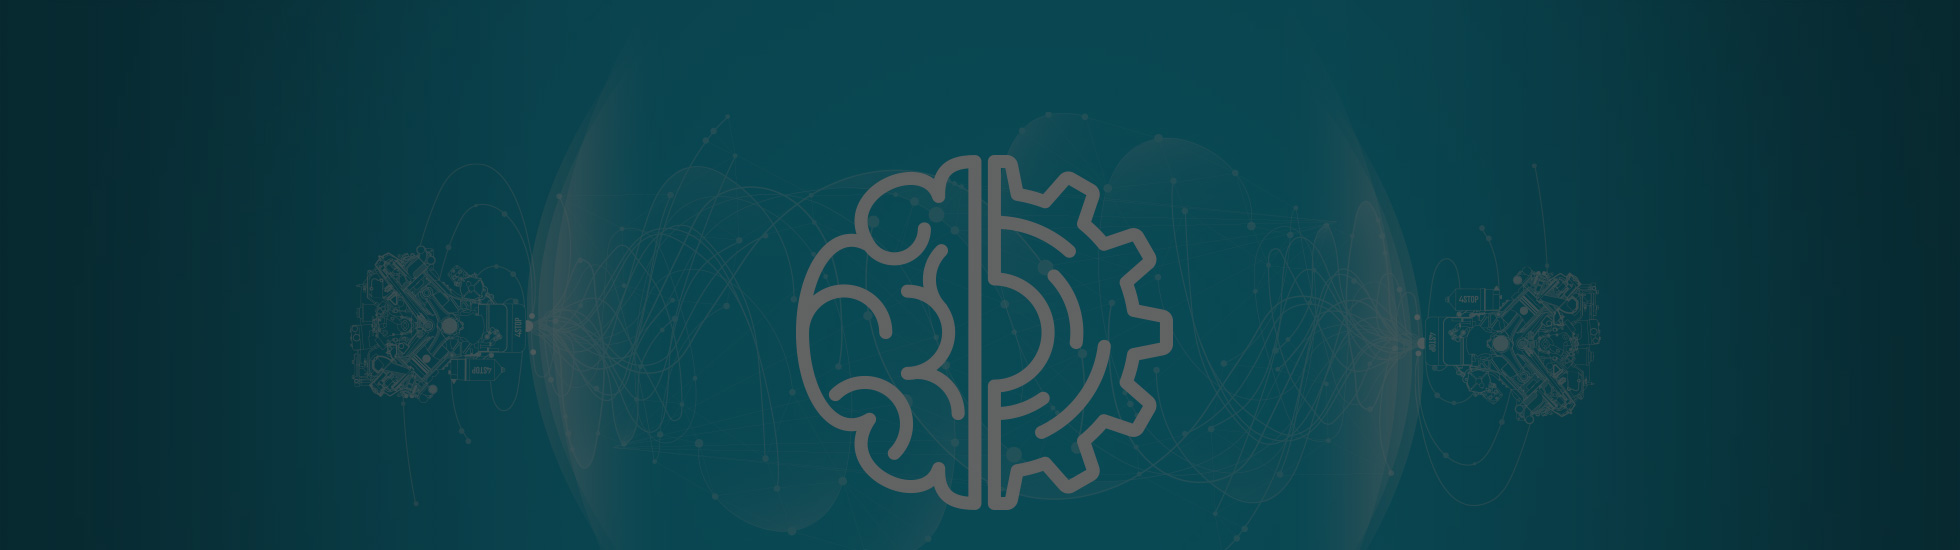
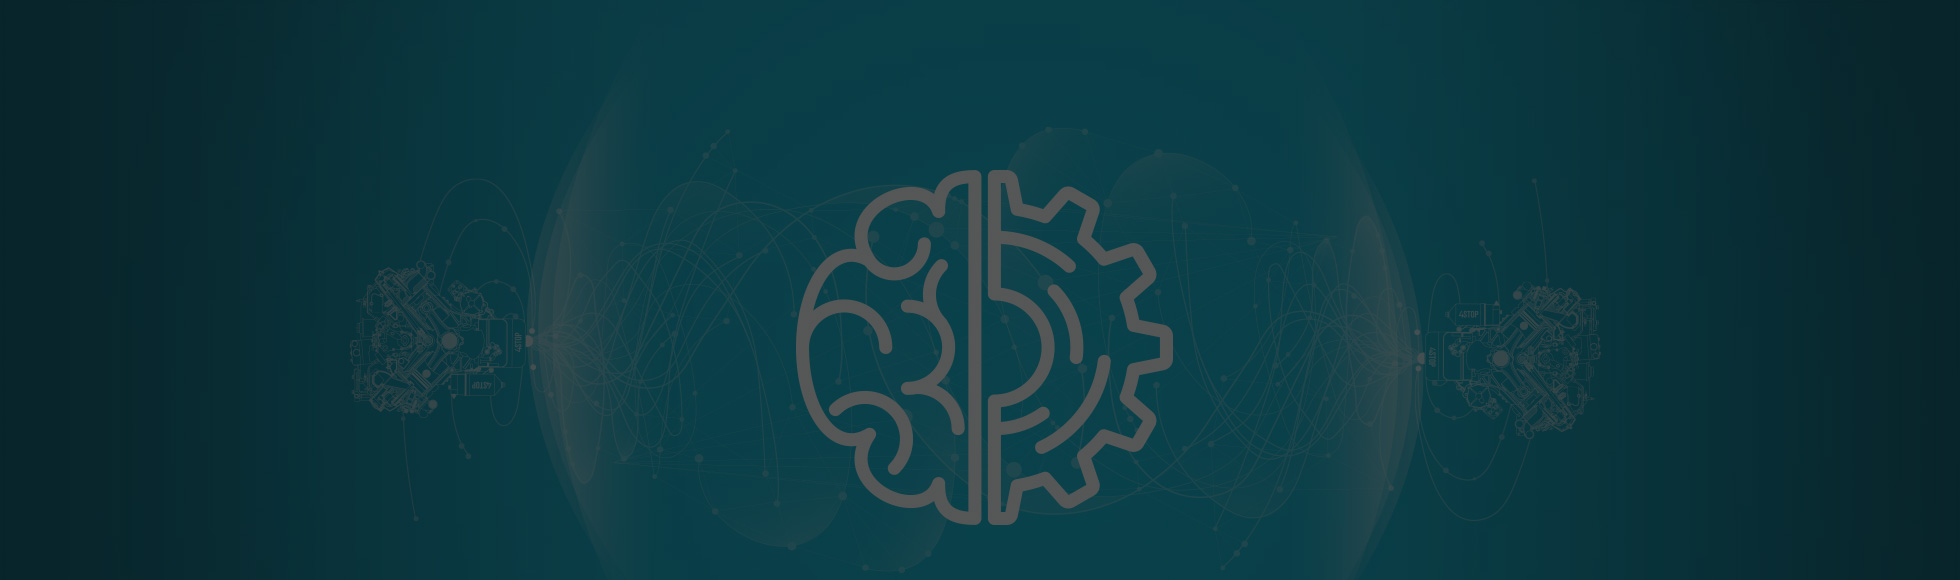
Update

diff --git a/_site/company.html b/_site/company.html
@@ -77,7 +77,7 @@
 		</header>
 		<!-- end header(menu) multipage section -->
 
-			<section class="s-main" style="background-image:url(/assets/images/company-banner.jpg); height:550px; background-repeat: no-repeat;
+			<section class="s-main" style="background-image:url(/assets/images/company-banner.jpg); height:570px; background-repeat: no-repeat;
 background-position: center center;" >
 	<div class="main-6">
 		<div class="container">

diff --git a/company.html b/company.html
@@ -77,7 +77,7 @@
 		</header>
 		<!-- end header(menu) multipage section -->
 
-			<section class="s-main" style="background-image:url(/assets/images/company-banner.jpg); height:550px; background-repeat: no-repeat;
+			<section class="s-main" style="background-image:url(/assets/images/company-banner.jpg); height:570px; background-repeat: no-repeat;
 background-position: center center;" >
 	<div class="main-6">
 		<div class="container">

diff --git a/_site/features.html b/_site/features.html
@@ -79,7 +79,7 @@
 
 			<div class="wrapper-content">
 
-							<section class="s-main" style="background-image:url(/assets/images/features-banner.jpg); height:550px; background-repeat: no-repeat;
+							<section class="s-main" style="background-image:url(/assets/images/features-banner.jpg); height:570px; background-repeat: no-repeat;
 background-position: center center;" >
 	<div class="main-6">
 		<div class="container">

diff --git a/features.html b/features.html
@@ -79,7 +79,7 @@
 
 			<div class="wrapper-content">
 
-							<section class="s-main" style="background-image:url(/assets/images/features-banner.jpg); height:550px; background-repeat: no-repeat;
+							<section class="s-main" style="background-image:url(/assets/images/features-banner.jpg); height:570px; background-repeat: no-repeat;
 background-position: center center;" >
 	<div class="main-6">
 		<div class="container">

diff --git a/_site/about.html b/_site/about.html
@@ -79,7 +79,7 @@
 
 			<div class="wrapper-content">
 
-			<section class="s-main" style="background-image:url(/assets/images/about-banner.jpg); height:550px; background-repeat: no-repeat;
+			<section class="s-main" style="background-image:url(/assets/images/about-banner.jpg); height:570px; background-repeat: no-repeat;
 background-position: center center;" >
 	<div class="main-6">
 		<div class="container">

diff --git a/about.html b/about.html
@@ -79,7 +79,7 @@
 
 			<div class="wrapper-content">
 
-			<section class="s-main" style="background-image:url(/assets/images/about-banner.jpg); height:550px; background-repeat: no-repeat;
+			<section class="s-main" style="background-image:url(/assets/images/about-banner.jpg); height:570px; background-repeat: no-repeat;
 background-position: center center;" >
 	<div class="main-6">
 		<div class="container">
